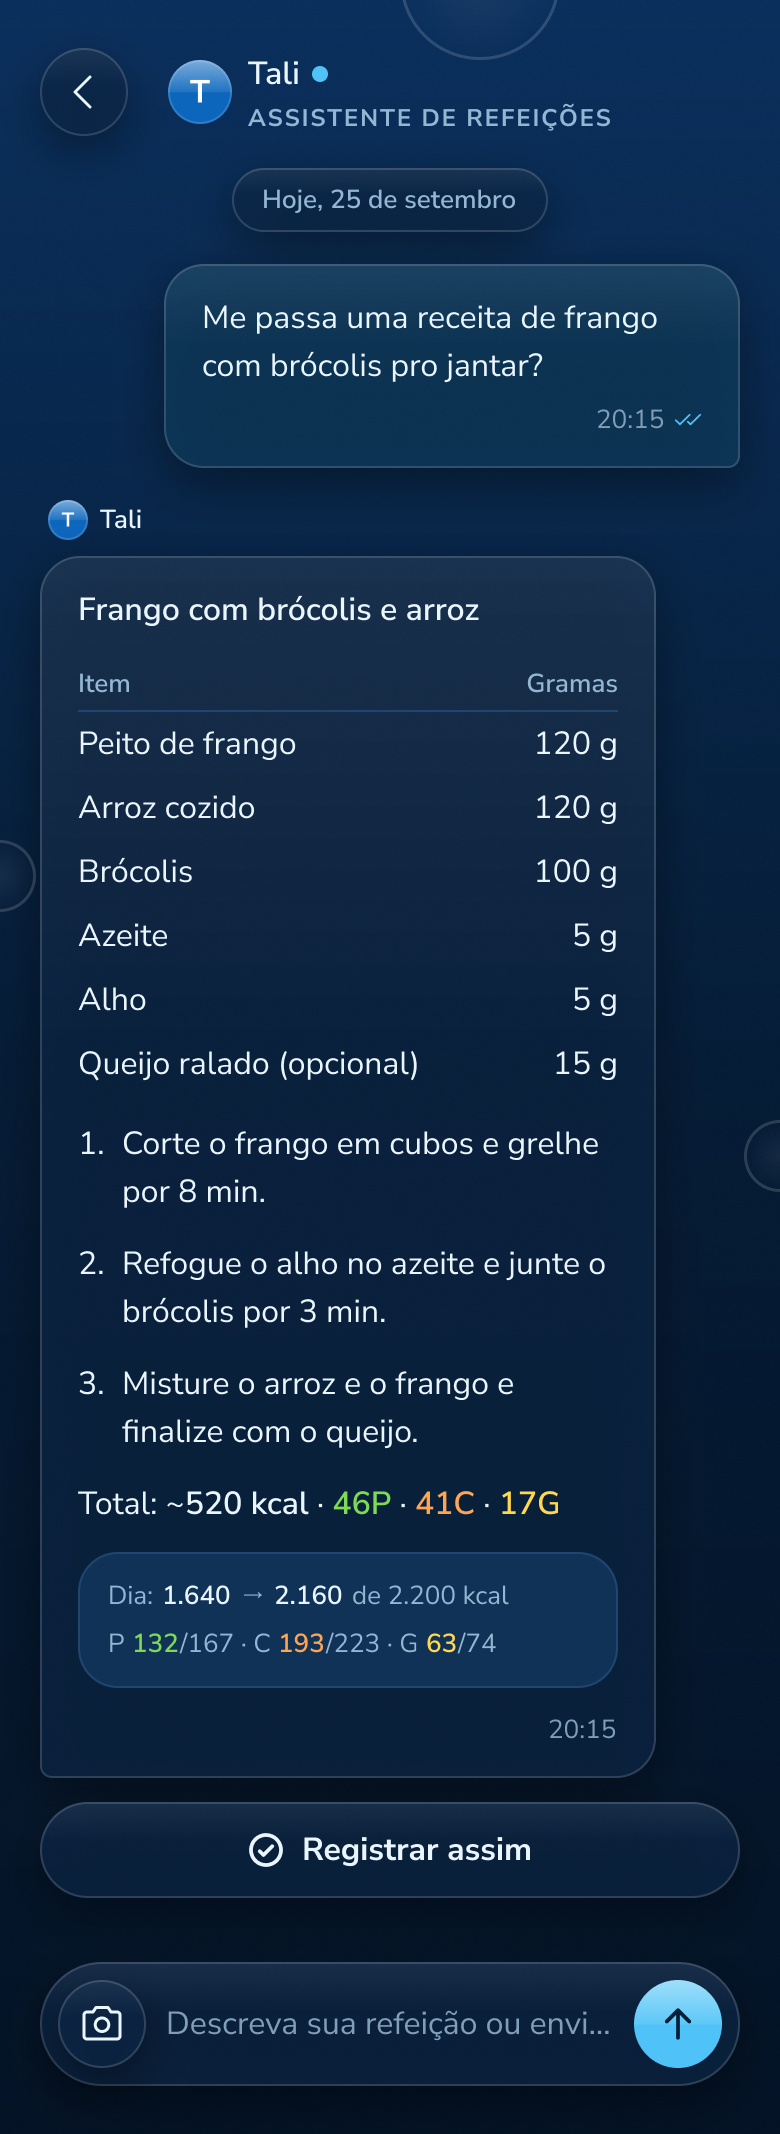
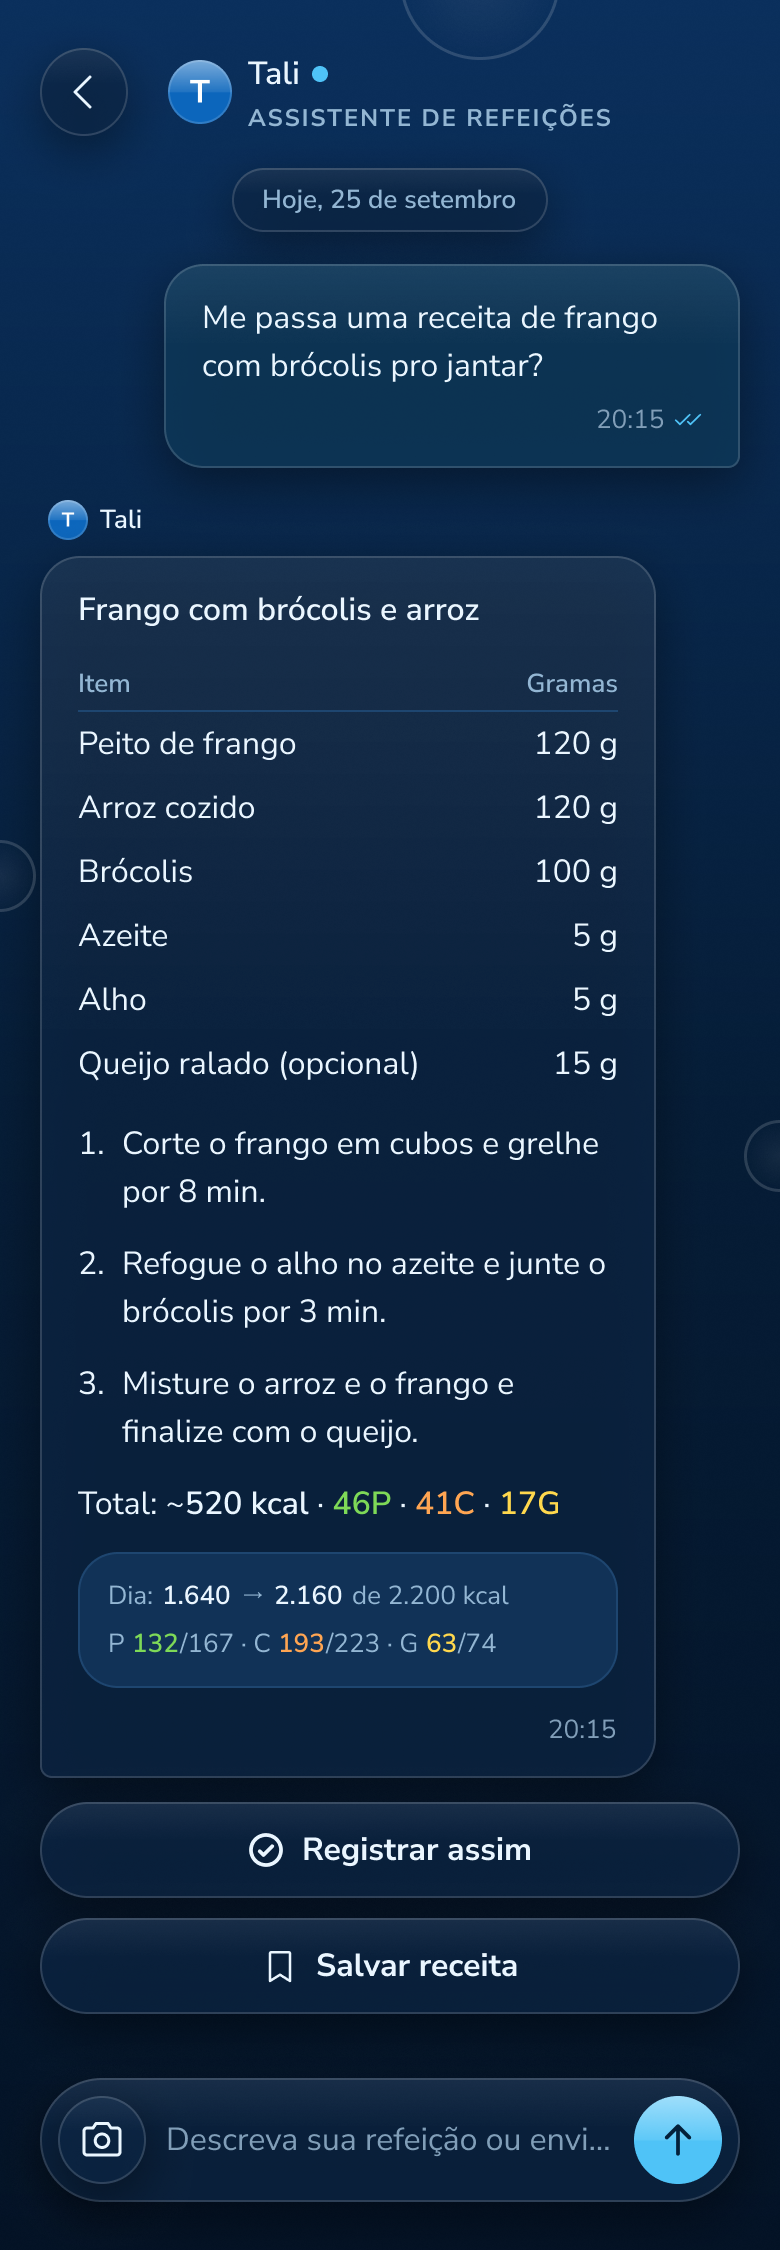
docs(design): D23 owner OK, rcpL, rcpD and chatRK golds exported, plan closed

diff --git a/docs/produto/README.md b/docs/produto/README.md
@@ -88,6 +88,6 @@ This context has no `plans/`. Deliveries belong to [Android](../android/README.m
 
 Meal updates: D9 and A47 (history: [`completed/`](../design/plans/completed/), [`completed/`](../android/plans/completed/)).
 
-Chat after the brainstorm of 07/10/2026 (`benchmark/MELHORIAS_CHAT_07_10_2026.md` § 5, benchmark `benchmark/RESULTADOS_08_10_2026.md`), in execution order: [S33](../server/plans/s33-chat-context-effort-low.md) → [S34](../server/plans/s34-protein-boost-hybrid.md) → [A64](../android/plans/a64-chat-context-fields-day-balance.md) → [CP10](../content-policy/plans/cp10-workout-in-scope-and-skip-boundary.md) → [S35](../server/plans/s35-workout-via-chat.md) → [A65](../android/plans/a65-workout-via-chat.md) → [S36](../server/plans/s36-typed-actions.md) → [A66](../android/plans/a66-typed-actions-batch.md) → [S37](../server/plans/s37-plan-options-and-discovery.md) → [A67](../android/plans/a67-plan-options-and-discovery.md) → [D23](../design/plans/pending_manual_validation/d23-release-2-recipes.md) → [S38](../server/plans/s38-saved-recipes.md) → [A68](../android/plans/a68-saved-recipes.md) → [D24](../design/plans/d24-release-2-visible-memory.md) → [A69](../android/plans/a69-visible-memory.md) (ADR-049 to ADR-055).
+Chat after the brainstorm of 07/10/2026 (`benchmark/MELHORIAS_CHAT_07_10_2026.md` § 5, benchmark `benchmark/RESULTADOS_08_10_2026.md`), in execution order: [S33](../server/plans/s33-chat-context-effort-low.md) → [S34](../server/plans/s34-protein-boost-hybrid.md) → [A64](../android/plans/a64-chat-context-fields-day-balance.md) → [CP10](../content-policy/plans/cp10-workout-in-scope-and-skip-boundary.md) → [S35](../server/plans/s35-workout-via-chat.md) → [A65](../android/plans/a65-workout-via-chat.md) → [S36](../server/plans/s36-typed-actions.md) → [A66](../android/plans/a66-typed-actions-batch.md) → [S37](../server/plans/s37-plan-options-and-discovery.md) → [A67](../android/plans/a67-plan-options-and-discovery.md) → D23 ([history](../design/plans/completed/)) → [S38](../server/plans/s38-saved-recipes.md) → [A68](../android/plans/a68-saved-recipes.md) → [D24](../design/plans/d24-release-2-visible-memory.md) → [A69](../android/plans/a69-visible-memory.md) (ADR-049 to ADR-055).
 
 Protein-first plan, tone, formatting, planned meal and skips: S24 ([`completed/`](../server/plans/completed/), ADR-043); S30 ([`completed/`](../server/plans/completed/), server, ADR-044/045/046) and [A60](../android/plans/pending_manual_validation/a60-tone-formatting-planned-skips.md) (app, ADR-039/044/045/046/047); its part E, the skips, by [A59](../android/plans/pending_manual_validation/a59-skips-with-other-actions.md); the auto-record defect A54 ([`completed/`](../android/plans/completed/)). Deferred by owner decision: goal weight, [A56](../android/plans/out_of_scope/a56-goal-weight.md).

diff --git a/docs/design/plans/completed/d23-release-2-recipes.md b/docs/design/plans/completed/d23-release-2-recipes.md
@@ -1,6 +1,6 @@
 # Plan — D23 Release 2: Recipes
 
-- Status: Pendente aprovação manual (Figma review gate, 08/10/2026)
+- Status: Concluído (08/10/2026)
 - Date: 08/10/2026
 - Owning context: `design`
 - Affected code: none in `apps/` or `server/`. Figma `Design` → `Release 2` → section "Receitas", new components in `Componentes`. Repository: `docs/qa/figma/{dark,light}/{rcpL,rcpD}.png`, the changed `chatRK` (Salvar receita action), and the node ids in `tools/export-figma.mjs`.
@@ -114,3 +114,18 @@ Icon: `bookmark-simple` (regular) is not in the file; its official SVG comes fro
 3. Review images: `node tools/export-figma.mjs --only <node ids> --dry-run` (no MCP calls), one per frame, sent to the owner. One fix before sending: the totals separators lost their spaces (trailing spaces of an auto-width text), now `·` with a 5 px gap.
 
 Figma MCP budget: 15 of 60 calls (whoami, 3 skill reads, 4 reads, 5 writes, 2 failed writes retried, 1 read-back).
+
+### Owner review
+
+**OK (08/10/2026)** on the first round, with no fixes ("telas aprovadas, exporte tudo e pode continuar"). Asked where the list is opened from: Config → Receitas (ADR-052 § 2). The owner accepted the proposal to draw that entry row in `cfg` within D24, in a new block with "O que a Tali sabe".
+
+### Export (08/10/2026)
+
+- `tools/export-figma.mjs`: `rcpL` (Light `192:9`, Dark `193:277`) and `rcpD` (Light `192:226`, Dark `193:356`) added; `chatRK` now points to the `Release 2` frames (Light `192:438`, Dark `193:422`); the map comment names both release pages.
+- `node tools/export-figma.mjs --only chatRK,rcpL,rcpD`: `rcpL` 780 × 1688 and `rcpD` 780 × 1742 (new, both themes); `chatRK` 780 × 2134 → 780 × 2250 (both themes).
+- Inventory: `rcpL.png · rcpD.png` added to [docs/qa/README.md](../../../qa/README.md); the golds-per-flow table of the [plans README](../README.md) gains the `Release 2` recipes row.
+- `node tools/check-figma.mjs`: 104 golds verified (52 dark + 52 light). `node tools/check-docs.mjs` passes.
+- Gold check of the current app (no `apps/` change; `GoldTest.chatRK*`, run with `--rerun`): the whole frame is report-only (blurred 3.30 % Dark, 2.67 % Light); the header region passes (0.22 %, 0.29 %); the bottom region fails (4.50 % Dark, 3.08 % Light), by design: the app does not draw **Salvar receita** yet.
+- **Hand-over to [A68](../../../android/plans/a68-saved-recipes.md):** the action under a cooking plan, the list and detail against `rcpL` and `rcpD`, and the `chatRK` qualifier at 1125 dp. Until A68, `GoldTest.chatRK_dark` and `chatRK_light` fail on their bottom region; a client plan that runs before A68 needs a temporary exception there (owner decision). The Config entry row is drawn by [D24](../d24-release-2-visible-memory.md).
+
+Figma MCP budget: 15 of 60 calls in total (no call after the review: the export uses the REST API).

diff --git a/docs/android/plans/a68-saved-recipes.md b/docs/android/plans/a68-saved-recipes.md
@@ -4,7 +4,7 @@
 - Date: 08/10/2026
 - Owning context: `android`
 - Affected code: `apps/android/` only: Room entities `recipe` and `recipe_version` (v14), local search by name and ingredient, `PromptBuilder` (`recipes[]` index, `recipe_full` when found), "Salvar receita" action under a cooking plan, Config entry, list and detail screens (`rcpL`, `rcpD`), record by recipe with receipt, tests, captures.
-- Prerequisites: [S38](../../server/plans/s38-saved-recipes.md) on the dev server; [A67](a67-plan-options-and-discovery.md) delivered; [D23](../../design/plans/pending_manual_validation/d23-release-2-recipes.md) `Concluído`.
+- Prerequisites: [S38](../../server/plans/s38-saved-recipes.md) on the dev server; [A67](a67-plan-options-and-discovery.md) delivered; [D23](../../design/plans/completed/d23-release-2-recipes.md) `Concluído`.
 - Related documentation: [ADR-052](../../produto/adrs/ADR-052-saved-recipes.md), ADR-017/048, [product Chat](../../produto/specifications/chat.md), [memoria-push](../../produto/specifications/memoria-push.md), [Room](../specifications/room-v2.md), [gold inventory](../../qa/README.md).
 
 Authorization and delivery follow [SDD](../../sdd/README.md). Approval: `Aprovo o plano docs/android/plans/a68-saved-recipes.md. Implemente o plano aprovado.`

diff --git a/docs/design/plans/README.md b/docs/design/plans/README.md
@@ -26,6 +26,7 @@ Golds per flow (ids unchanged, inventory in [docs/qa/README.md](../../qa/README.
 | Chat core | `chat0`, `chatL`, `chatQ`, `chatE`, `chatT`, `chatP`, `chatX`, `chatCP`, `chatCC` |
 | Chat records and memory | `chatF`, `chatA`, `chatG`, `chatU`, `chatD`, `chatR`, `chatM`, `chatS`, `chatRK`, `chatRB`, `chatRL` |
 | Config and push | `cfg`, `cfgS`, `wipe`, `cfgR`, `cfgT`, `push` |
+| Recipes (`Release 2`) | `rcpL`, `rcpD` |
 
 ## Figma review gate
 
@@ -153,7 +154,7 @@ Behavior: [ADR-052](../../produto/adrs/ADR-052-saved-recipes.md), [ADR-053](../.
 
 | Step | Plan | Depends on |
 |---|---|---|
-| Design | [D23](pending_manual_validation/d23-release-2-recipes.md) — Recipes (`rcpL`, `rcpD`, `chatRK`) | D22, ADR-052 accepted (S38) |
+| Design | D23 — Recipes (`rcpL`, `rcpD`, `chatRK`), delivered ([history](completed/)) | D22, ADR-052 accepted (S38) |
 | Client | [A68](../../android/plans/a68-saved-recipes.md) — saved recipes | D23, S38 on dev, A67 |
 | Design | [D24](d24-release-2-visible-memory.md) — "O que a Tali sabe" (`memL`, `cfg`) | D23, ADR-053 accepted (A69) |
 | Client | [A69](../../android/plans/a69-visible-memory.md) — memory screen | D24, A68 |

diff --git a/docs/design/plans/d24-release-2-visible-memory.md b/docs/design/plans/d24-release-2-visible-memory.md
@@ -4,7 +4,7 @@
 - Date: 08/10/2026
 - Owning context: `design`
 - Affected code: none in `apps/` or `server/`. Figma `Design` → `Release 2` → section "Memória", new components in `Componentes`. Repository: `docs/qa/figma/{dark,light}/memL.png`, the changed `cfg` (entry row), and the node ids in `tools/export-figma.mjs`.
-- Prerequisites: [D23](pending_manual_validation/d23-release-2-recipes.md) `Concluído` (same release section order); [ADR-053](../../produto/adrs/ADR-053-visible-memory-screen.md) accepted with A69.
+- Prerequisites: D23 `Concluído` ([history](completed/)) (same release section order); [ADR-053](../../produto/adrs/ADR-053-visible-memory-screen.md) accepted with A69.
 - Figma MCP budget: ≤ 40 calls (at most 120 a day, ADR-031 § 6).
 
 Authorization, lifecycle, cancellation and deferral: `docs/sdd/README.md`. Approval: `Aprovo o plano docs/design/plans/d24-release-2-visible-memory.md. Implemente o plano aprovado.`

diff --git a/docs/server/plans/s38-saved-recipes.md b/docs/server/plans/s38-saved-recipes.md
@@ -27,7 +27,7 @@ The model sees the recipe index on every turn and the full recipe when the messa
 
 ## Out of scope
 
-- Storage, search, screens and the bubble action: [D23](../../design/plans/pending_manual_validation/d23-release-2-recipes.md), [A68](../../android/plans/a68-saved-recipes.md).
+- Storage, search, screens and the bubble action: [D23](../../design/plans/completed/d23-release-2-recipes.md), [A68](../../android/plans/a68-saved-recipes.md).
 
 ## Validation
 

diff --git a/docs/qa/README.md b/docs/qa/README.md
@@ -26,6 +26,7 @@ chatF.png · chatG.png · chatA.png · chatR.png · chatM.png · chatS.png · ch
 chatRK.png · chatRB.png · chatRL.png · chatSK.png · chatSD.png
 chatI.png · chatIC.png · chatTI.png
 cfg.png · cfgS.png · wipe.png · cfgR.png · cfgT.png · push.png
+rcpL.png · rcpD.png
 land.png · landM.png · priv.png
 ```
 
